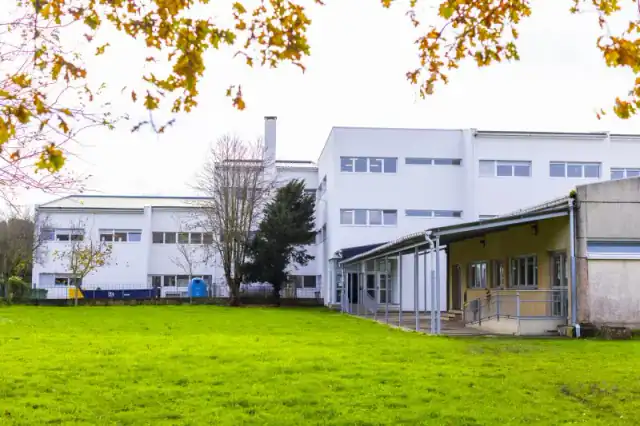
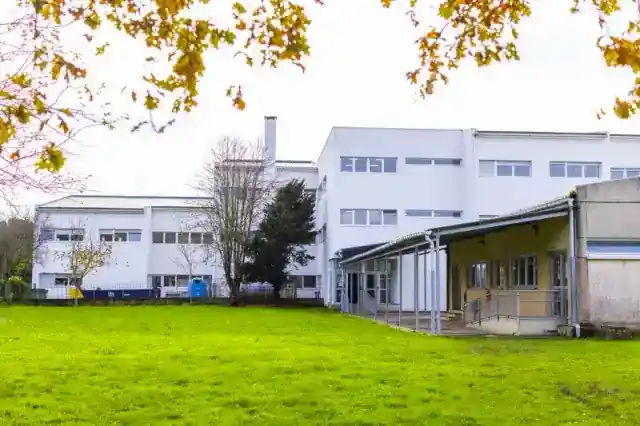
perf: increase hero image compression and fix activity card sizes attribute (#68)
- colegio-image-bg.webp: 63KB → 38KB (q30, overlay hides quality loss)
- colegio-image-bg-640.webp: 29KB → 20KB (q28 mobile variant)
- index.page.ts: fix sizes attribute on activity cards (85vw mobile, was 100vw)

diff --git a/src/app/pages/index.page.ts b/src/app/pages/index.page.ts
@@ -103,7 +103,7 @@ export const routeMeta = {
                     [alt]="act.titulo"
                     fill
                     class="w-full h-full object-cover transition-transform duration-1000 group-hover:scale-110"
-                    sizes="(max-width: 768px) 100vw, (max-width: 1200px) 50vw, 33vw"
+                    sizes="(max-width: 768px) 85vw, (max-width: 1200px) 50vw, 33vw"
                     [priority]="i < 3">
                   }
 
